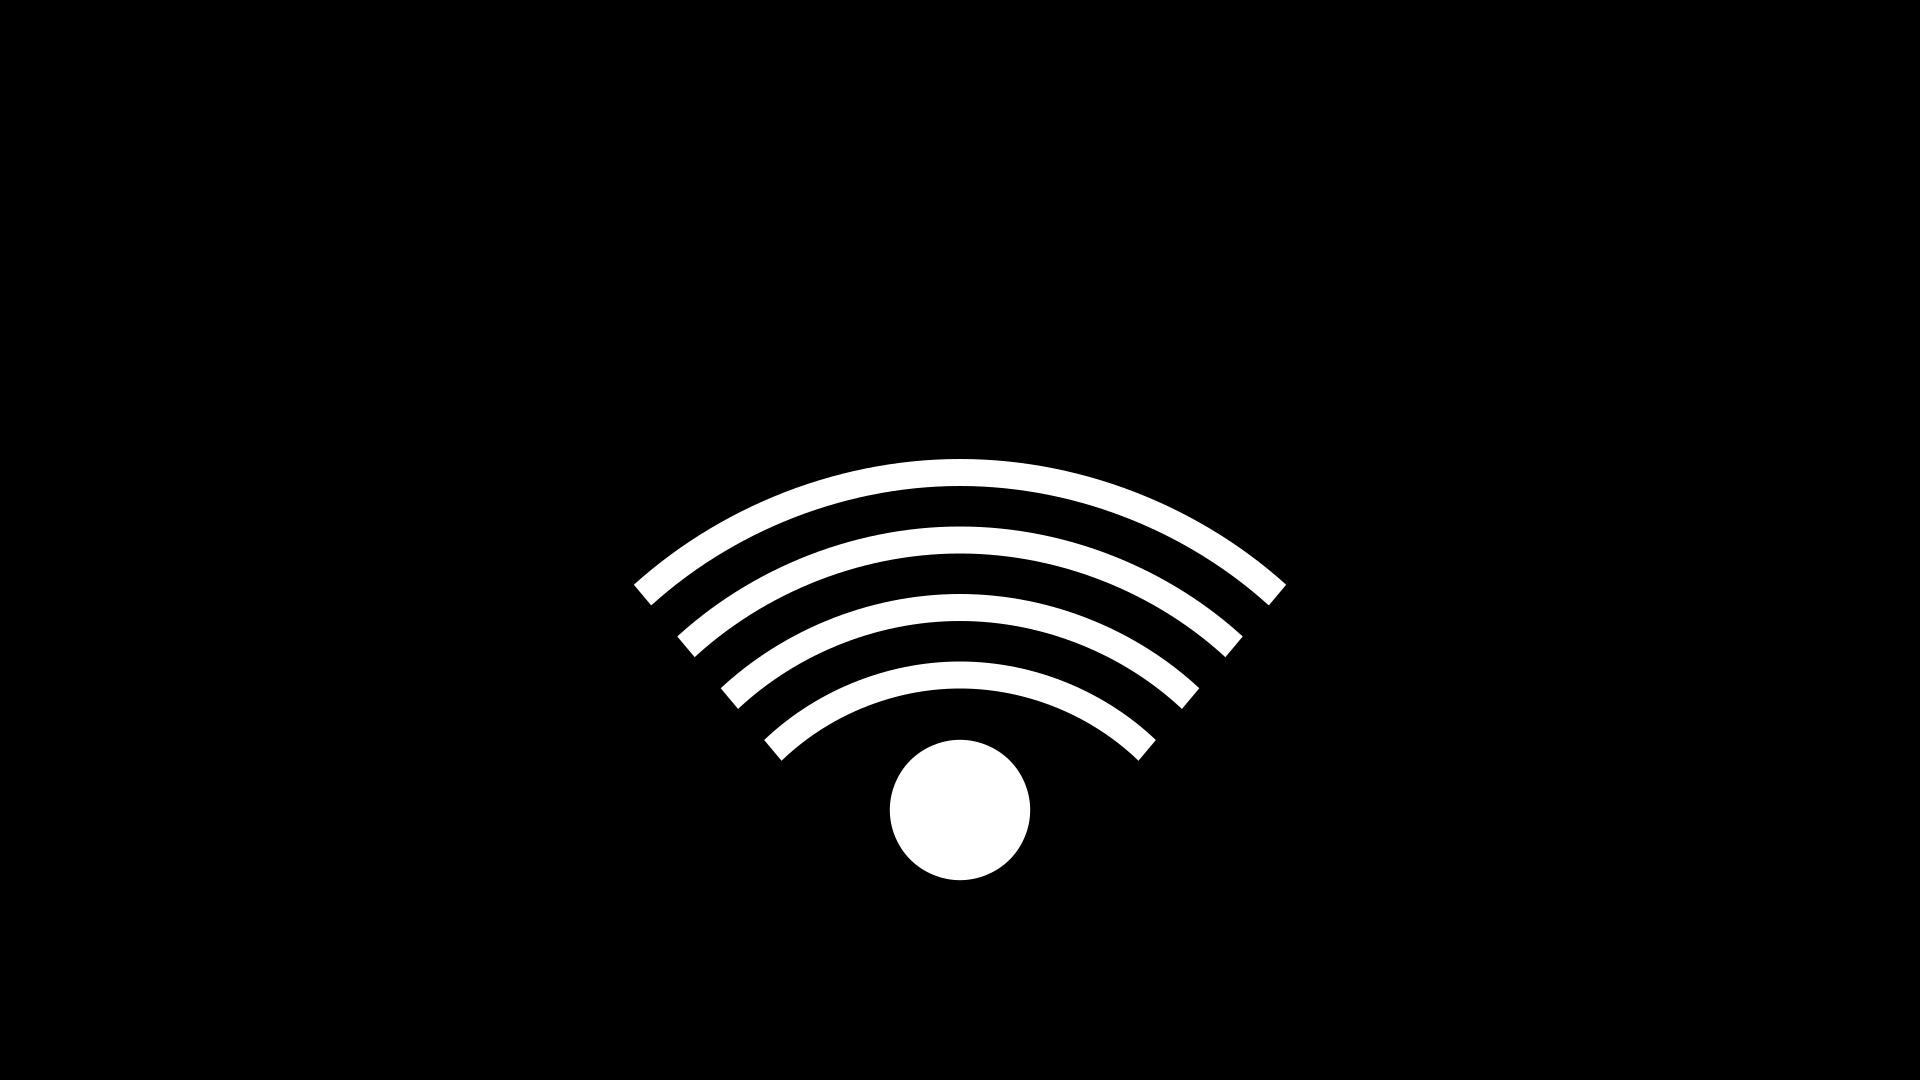
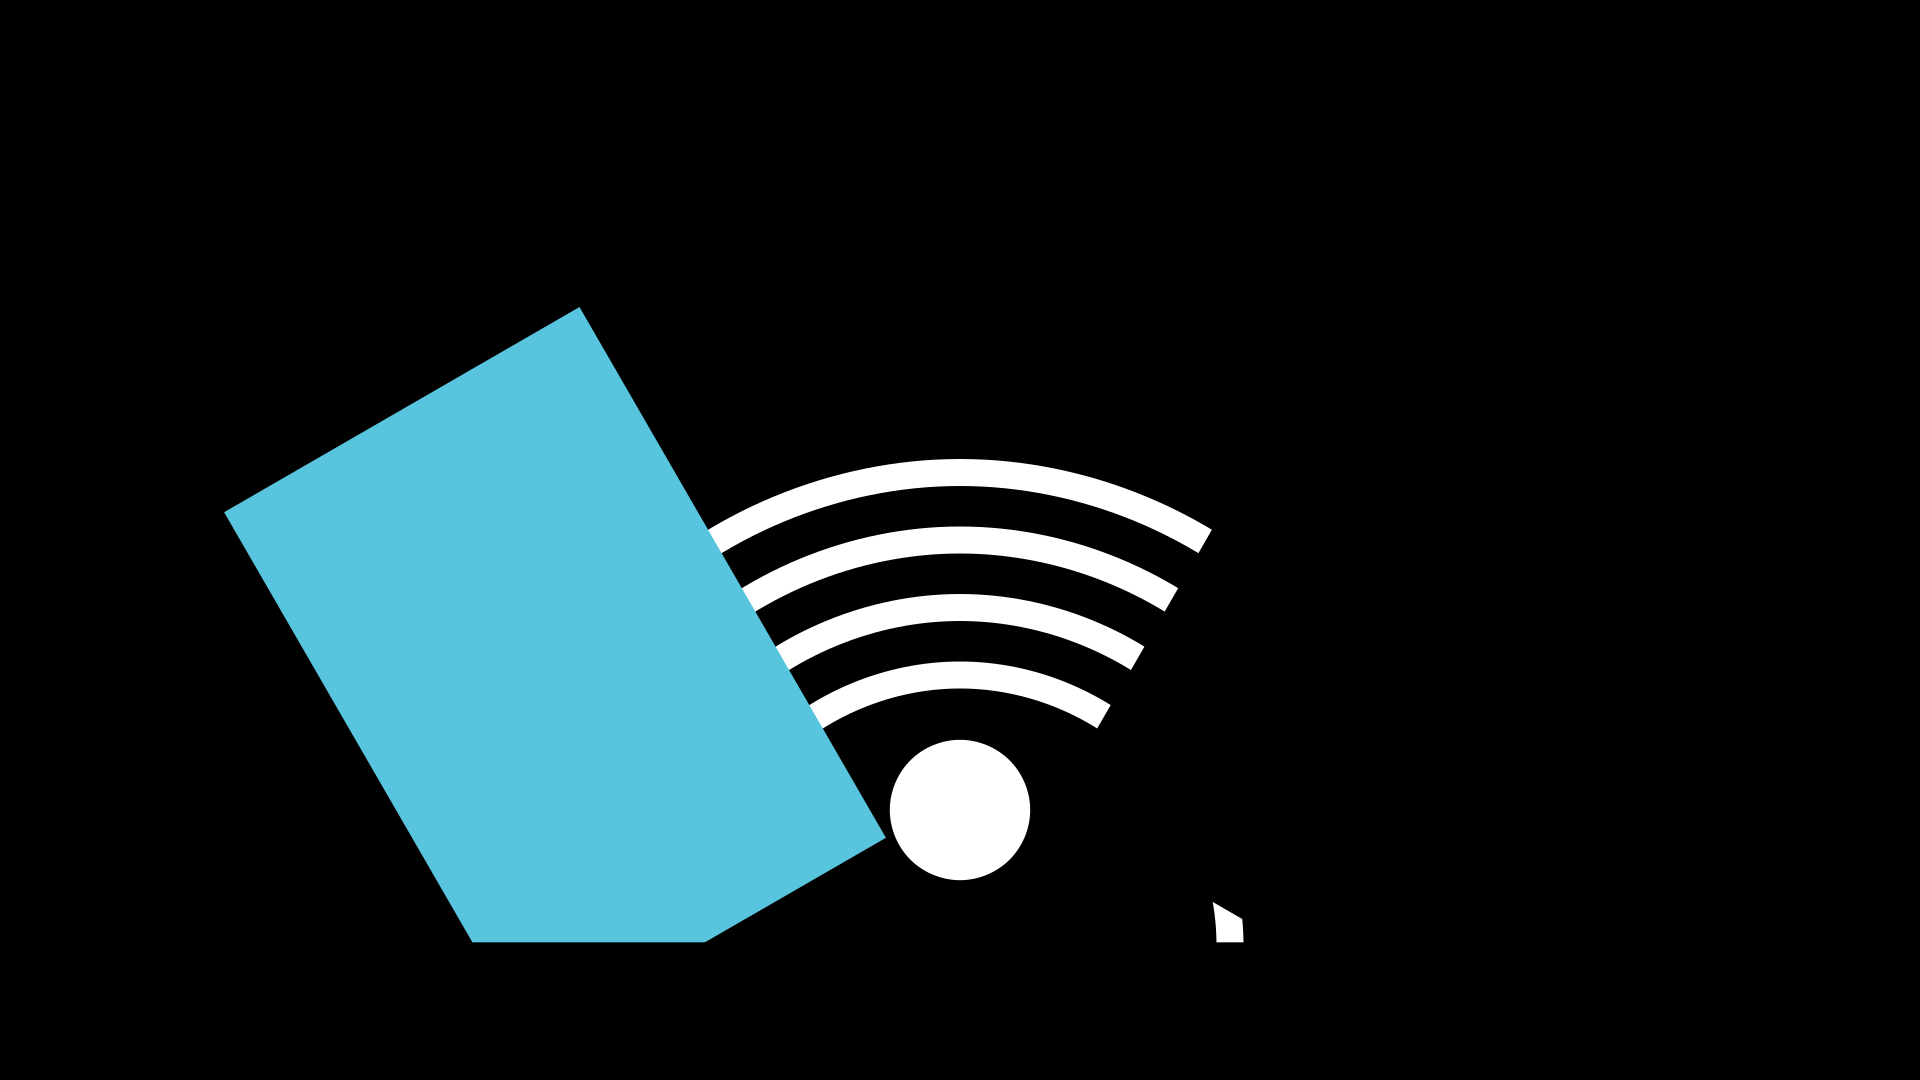
last minute changes on WIFI

Changed region(s): [[0.0938, 0.275, 0.4688, 0.8861], [0.5625, 0.4889, 0.6875, 0.7028], [0.625, 0.825, 0.6562, 0.8861]]

diff --git a/Exercises/Ex_06(OptionalWIFI).py b/Exercises/Ex_06(OptionalWIFI).py
@@ -17,13 +17,13 @@ class Ex_06(Scene):
         L5W = Circle(color=WHITE, **fill).set(height=1)
         L5W.shift(UP * 1)
 
-        rectangle1 = Rectangle(width=4, height=3, color=BLACK, **fill)
-        rectangle1.rotate(50 * DEGREES)
-        rectangle1.shift(UP + RIGHT * 3)
+        rectangle1 = Rectangle(width=4.5, height=3, color=BLACK, **fill)
+        rectangle1.rotate(60 * DEGREES)
+        rectangle1.shift(UP *2, RIGHT * 3)
 
-        rectangle2 = Rectangle(width=4, height=3, color=BLACK, **fill)
-        rectangle2.rotate(-50 * DEGREES)
-        rectangle2.shift(UP + LEFT * 3)
+        rectangle2 = Rectangle(width=4.5, height=3, color=BLUE, **fill)
+        rectangle2.rotate(-60 * DEGREES)
+        rectangle2.shift(UP * 2, LEFT * 3)
 
         rectangle3 = Rectangle(width=10, height=4, color=BLACK, **fill)
         rectangle3.shift(DOWN * 2)
